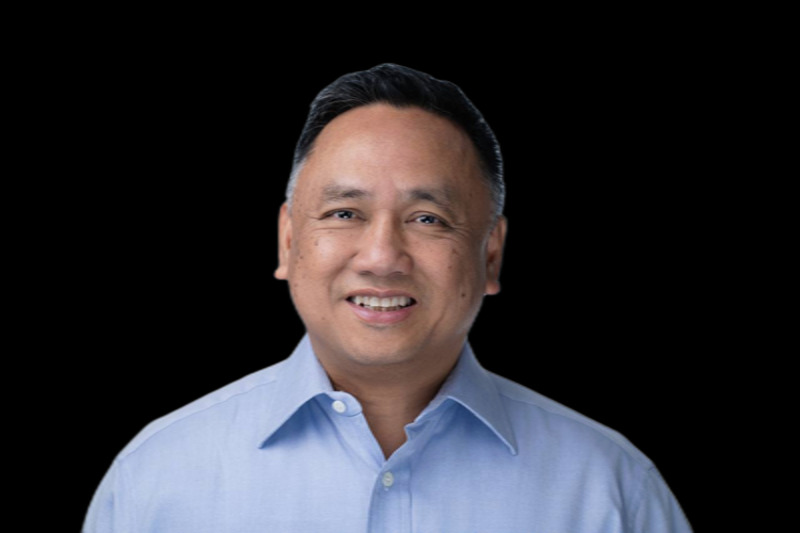
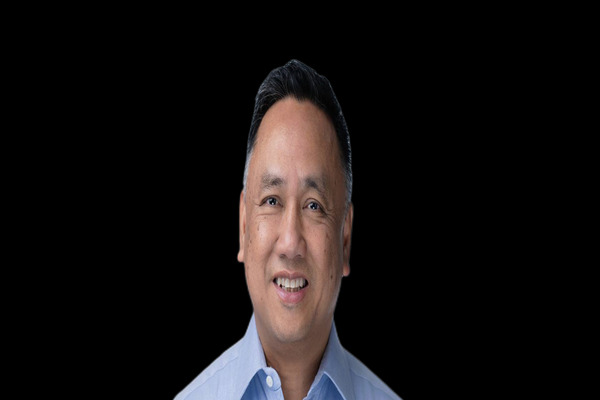
Fix Hoel image - use landscape version with proper framing

Changed region(s): [[0.09, 0.12, 0.87, 1.0]]

diff --git a/index.html b/index.html
@@ -312,7 +312,7 @@
         </div>
       </div>
       <div class="team-card fade-in">
-        <div class="team-card-img"><img src="img/hoel-black.jpg" alt="Hoel Bautista - Partner at FutureReady Advisory" style="object-position:center 15%"></div>
+        <div class="team-card-img"><img src="img/hoel-wide.jpg" alt="Hoel Bautista - Partner at FutureReady Advisory" style="object-position:center 15%"></div>
         <div class="team-card-body">
           <h3>Hoel Bautista</h3>
           <div class="team-card-role">Partner — Technology &amp; AI Strategy</div>